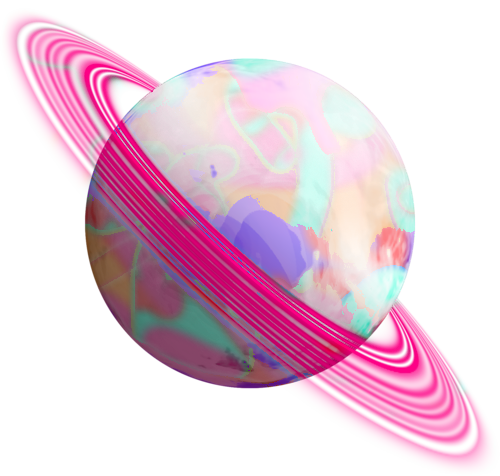
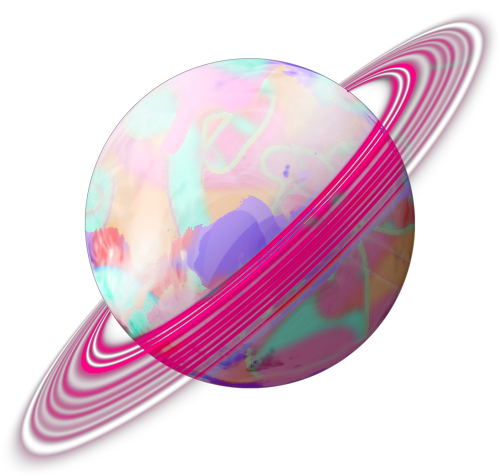
ㅎ

diff --git a/종합포트폴리오/css/index.css b/종합포트폴리오/css/index.css
@@ -35,8 +35,8 @@ body {
 
 .gradient {
     background-image: radial-gradient(circle at 85.36% 111.24%, #0d5c99 0, #008cff 5.56%, #1c85ff 11.11%, #687cff 16.67%, #8f73ff 22.22%, #ac69f6 27.78%, #c35ee8 33.33%, #d753d8 38.89%, #e647c7 44.44%, #f23cb5 50%, #fb33a2 55.56%, #ff2d90 61.11%, #ff2c7d 66.67%, #ff306a 72.22%, #ff3958 77.78%, #fe4346 83.33%, #f74e34 85.89%, #ef5921 94.44%, #e46303 100%);
-    /* background-size: 300%;
-    animation: grad 4s linear infinite; */
+        /* background-size: 300%;
+        animation: grad 4s linear infinite; */
 }
 
 @keyframes grad {
@@ -335,47 +335,42 @@ body {
 
 .planet3 img {
     position: absolute;
-    bottom: 420px;
-    left: 270px;
+    bottom: 440px;
+    left: 230px;
     animation: floating 1.5s ease-in infinite;
+    width: 300px;
+    z-index: 99999999;
 }
 
 .planet4 img {
     position: absolute;
-    bottom: 250px;
-    right: 100px;
+    top: 170px;
+    right: 300px;
     width: 250px;
     transition: all 0.5s;
     animation: animate__fadeIn 3s linear infinite;
 
-    animation: pulse 2.7s ease-in infinite;
+    animation: pulse 2s ease-in infinite;
+}
+.planet5 img{
+    position: absolute;
+    top:28%;
+    left:62%;
+    width: 1500px;
+    transition: all 0.5s;
+    transform: translate(-50%, -50%) rotate(-20deg);
 }
 
 @keyframes pulse {
-    50% {
-        transform: translateY(-30px);
-        opacity: 0;
-    }
-
-    100% {
-        transform: translateY(0px);
-        opacity: 1;
-    }
+    50% {transform: translateY(-30px);opacity: 0;}
+    100% {transform: translateY(0px);opacity: 1;}
 }
 
 
 @keyframes floating {
-    0% {
-        transform: translateY(0%);
-    }
-
-    50% {
-        transform: translateY(10%);
-    }
-
-    100% {
-        transform: translateY(0%);
-    }
+    0% {transform: translateY(0%);}
+    50% {transform: translateY(10%);}
+    100% {transform: translateY(0%);}
 }
 
 @font-face {
@@ -398,7 +393,7 @@ body {
     cursor: pointer;
     z-index: 99999999999;
     position: absolute;
-    top: 32%;
+    top: 35%;
     left: 50%;
     /* right: 50%; */
     transform: translate(-50%, -50%);

diff --git a/index copy.html b/index copy.html
@@ -31,8 +31,9 @@
             </div>
             <div class="planet1"><img src="종합포트폴리오/img/planet1.png" alt=""></div>
             <div class="planet2"><img src="종합포트폴리오/img/planet2.png" alt=""></div>
-            <div class="planet3"><img src="종합포트폴리오/img/planet3.png" alt=""></div>
-            <div class="planet4 "><img src="종합포트폴리오/img/planet8.png" alt=""></div>
+            <div class="planet3"><img src="종합포트폴리오/img/planet5.png" alt=""></div>
+            <div class="planet4 "><img src="종합포트폴리오/img/planet4.png" alt=""></div>
+            <div class="planet5 "><img src="종합포트폴리오/img/planet10.png" alt=""></div>
             <div class="title">PORTFOLIO</div>
         </div>
     </div>
